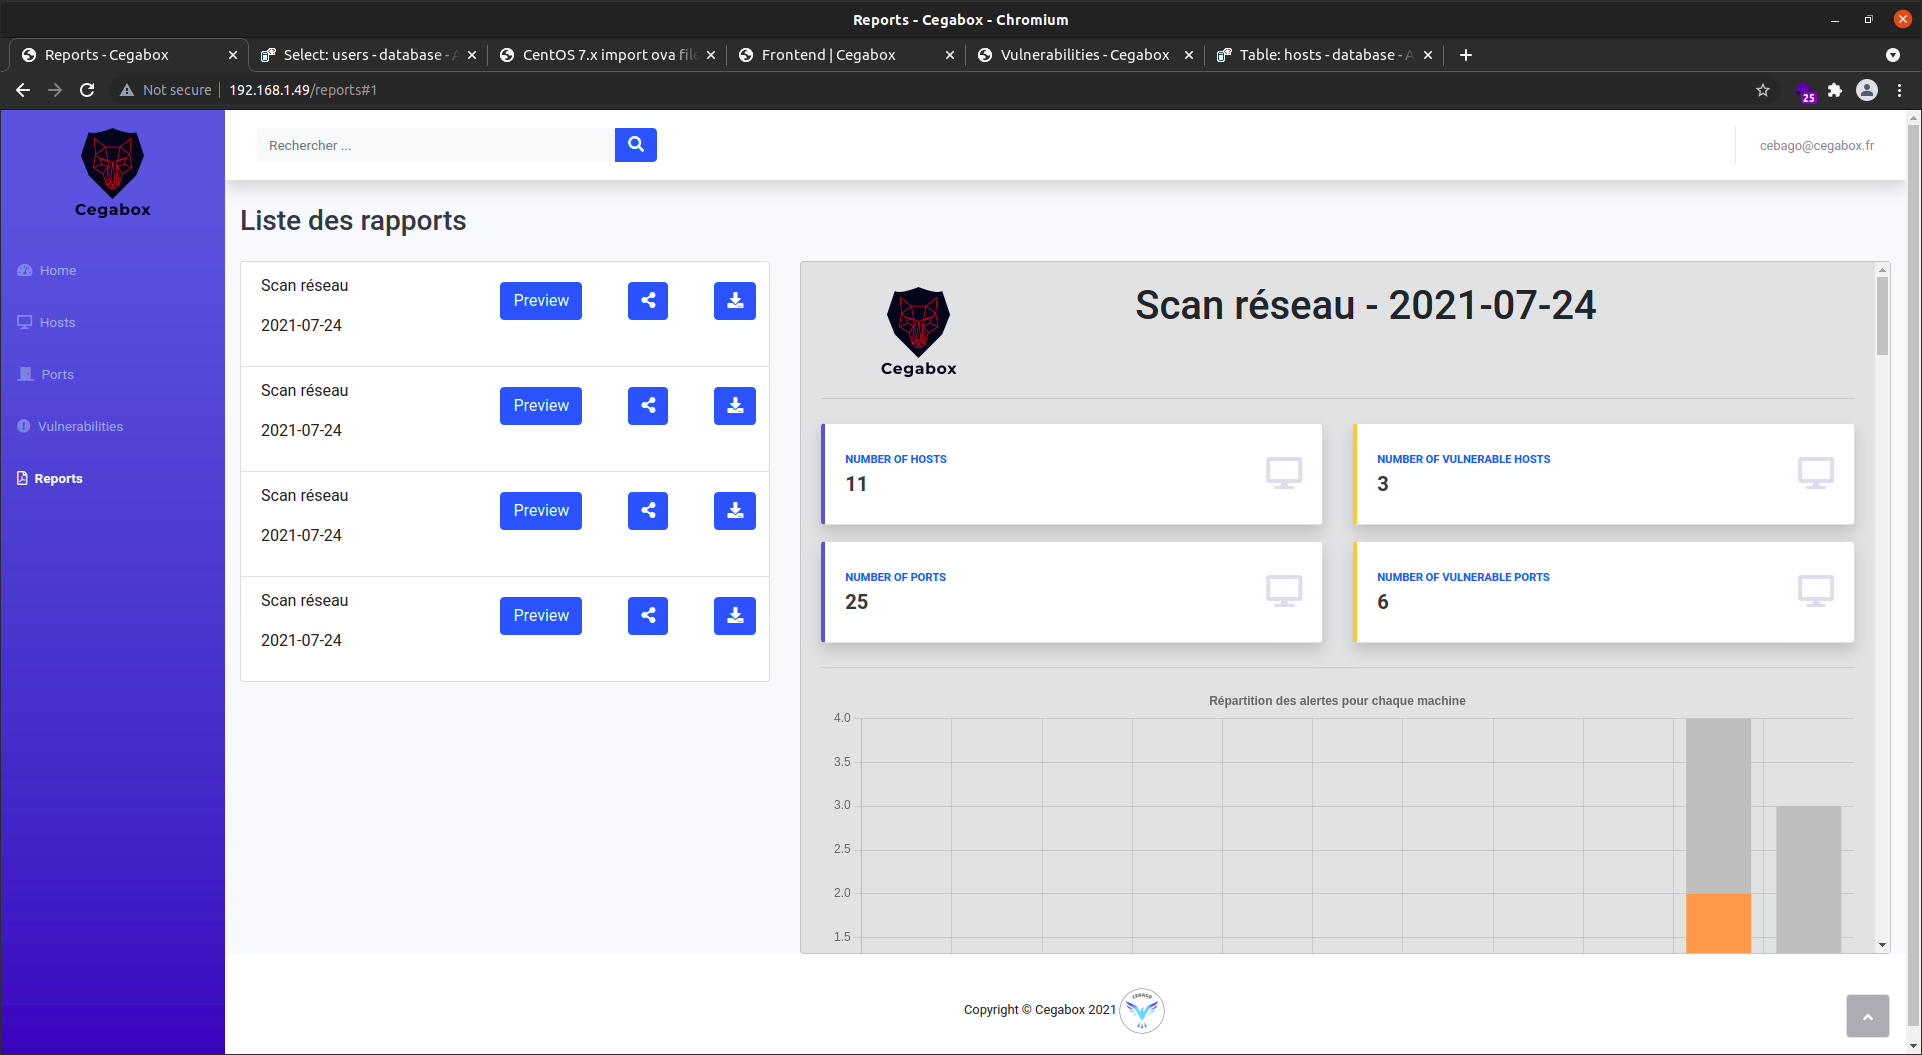
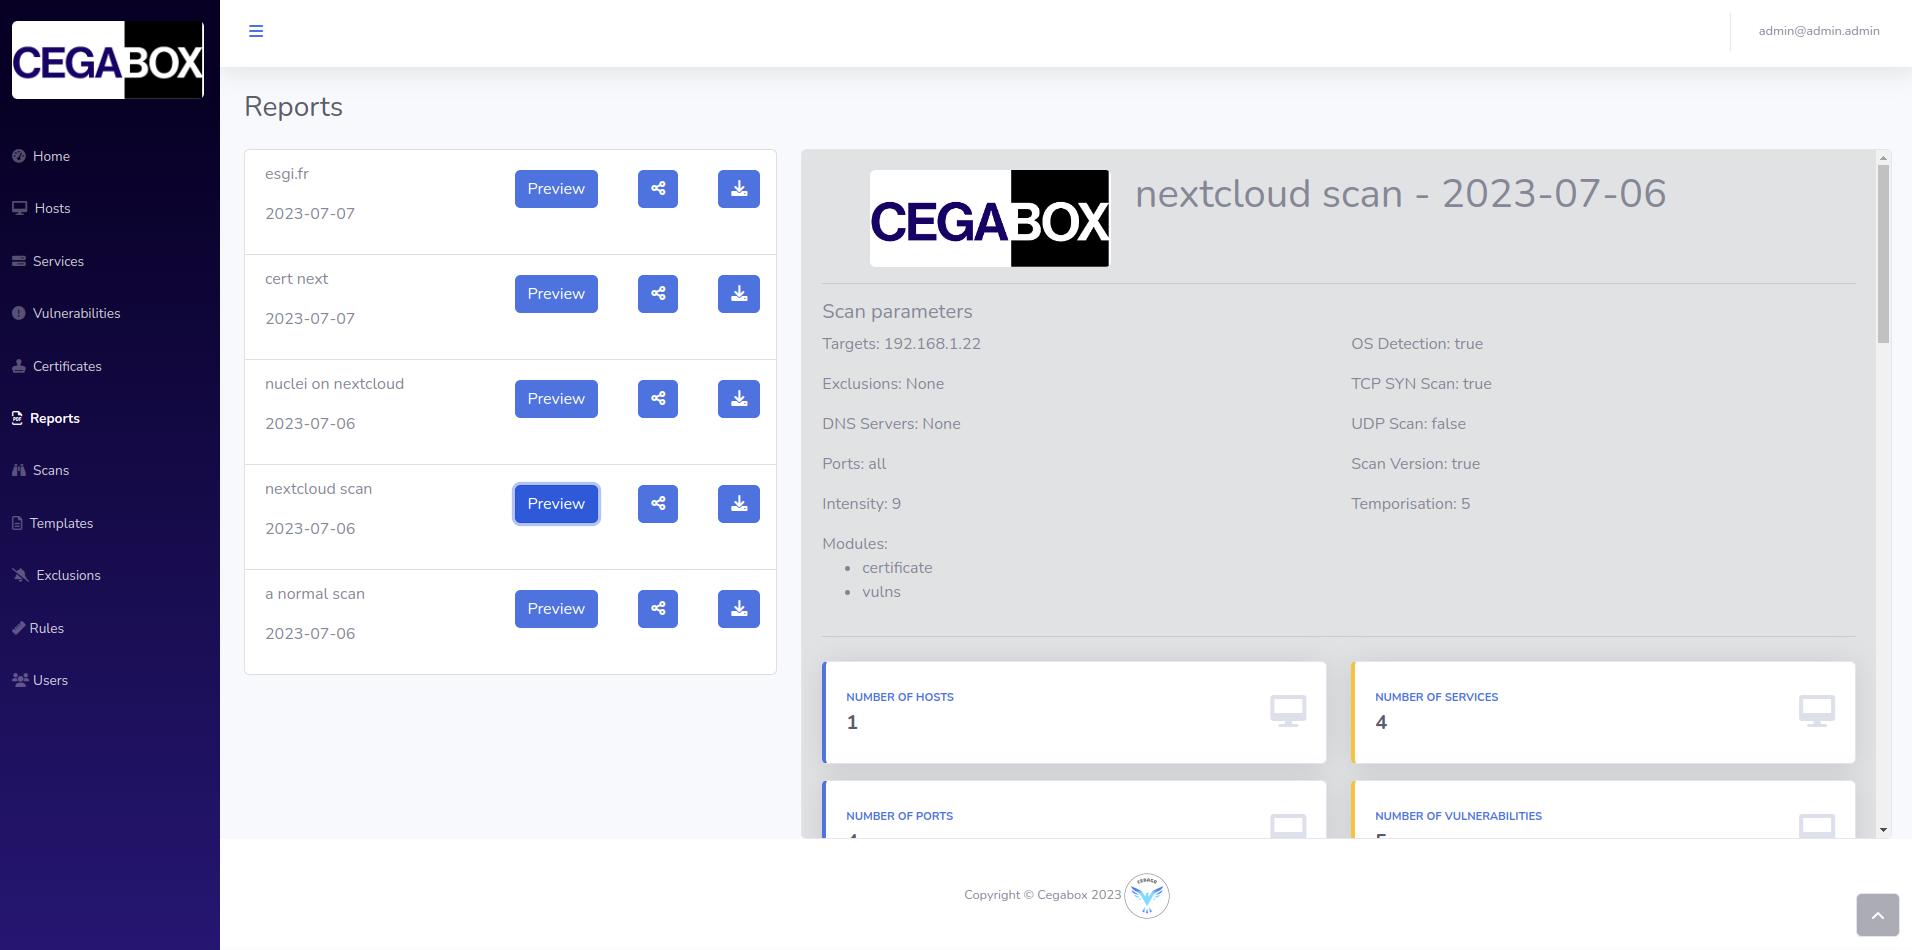
ok reports

diff --git a/reports.md b/reports.md
@@ -26,50 +26,56 @@
 
 In this list, you can find all the reports shared to you, download them in a JSON file. You have also the possibility to preview the report you want and see by this way an analysis of it.
 
-![Cegabox Reports Reader](https://cebago.github.io/Cegabox/img/cegabox-reports-reader.png)
+![Cegabox Reports Reader](./img/cegabox-reports-reader.png)
 
 #### Contributor & Administrator
 
 In this list, you can find all the reports shared to you, download them in a JSON file and share them with other users which have to "Reader" role. You have also the possibility to preview the report you want and see by this way an analysis of it.
 
-![Cegabox Reports Reader](https://cebago.github.io/Cegabox/img/cegabox-reports-notReader.png)
+![Cegabox Reports Reader](./img/cegabox-reports-notReader.png)
 
 ### Report preview
 
 In the second main part of your screen, you could see the content of the report and the analysis made of it.
 
+### Report parameters
+
+In this section about scan data, you will find all the parameters that you set up when you were creating your scan.
+
+![Cegabox Reports parameters section](./img/cegabox-reports-params.png)
+
 #### Report resume
 
 In the first section of the report, you could find a reminder of what the scan detected, like the hosts, the ports and, of course, the vulnerabilities.
 
-![Cegabox Reports vulnerability section](https://cebago.github.io/Cegabox/img/cegabox-reports-sectionVuln.png)
+![Cegabox Reports vulnerability section](./img/cegabox-reports-sectionVuln.png)
 
 #### Criticity chart
 
 In a second section, you will find chart which is highlighting for each hosts what are its vulnerabilities, group by criticity.
 
-![Cegabox Reports criticity chart](https://cebago.github.io/Cegabox/img/cegabox-reports-graphCriticity.png)
+![Cegabox Reports criticity chart](./img/cegabox-reports-graphCriticity.png)
 
 #### Network topology
 
 In the third section of the report, you could finda network topology based on the hosts responding on your network
 
-![Cegabox Reports network topology](https://cebago.github.io/Cegabox/img/cegabox-reports-networkTopology.png)
+![Cegabox Reports network topology](./img/cegabox-reports-networkTopology.png)
 
 #### List of vulnerabilities
 
 In this section, you will find the list of all vulnerabilities detected on your infrastructure.
 
-![Cegabox Reports list vulnerabilities](https://cebago.github.io/Cegabox/img/cegabox-reports-listVulns.png)
+![Cegabox Reports list vulnerabilities](./img/cegabox-reports-listVulns.png)
 
 #### List of hosts
 
 In this section, you will find the list of all hosts detected on your infrastructure.
 
-![Cegabox Reports list hosts](https://cebago.github.io/Cegabox/img/cegabox-reports-listHosts.png)
+![Cegabox Reports list hosts](./img/cegabox-reports-listHosts.png)
 
 #### List of ports
 
 In this section, you will find the list of all ports detected on your infrastructure.
 
-![Cegabox Reports list ports](https://cebago.github.io/Cegabox/img/cegabox-reports-listPorts.png)
+![Cegabox Reports list ports](./img/cegabox-reports-listPorts.png)
